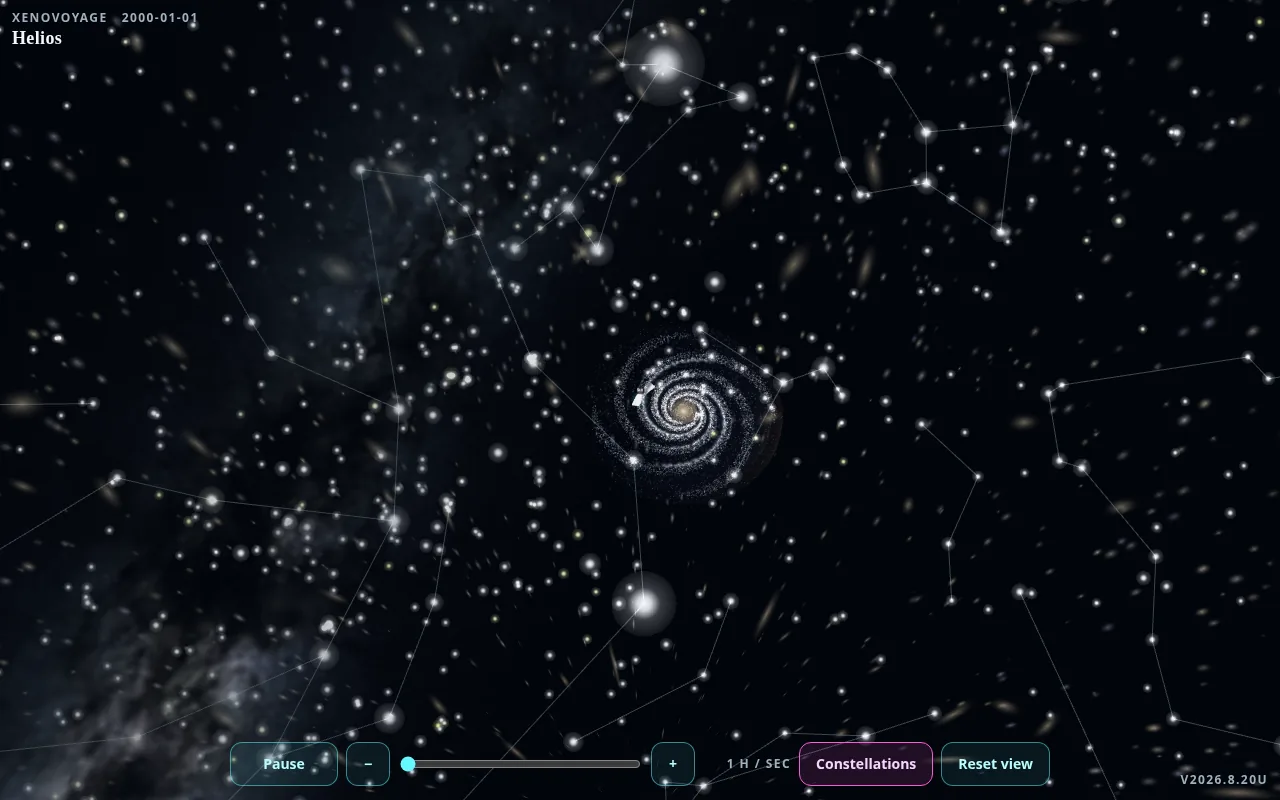
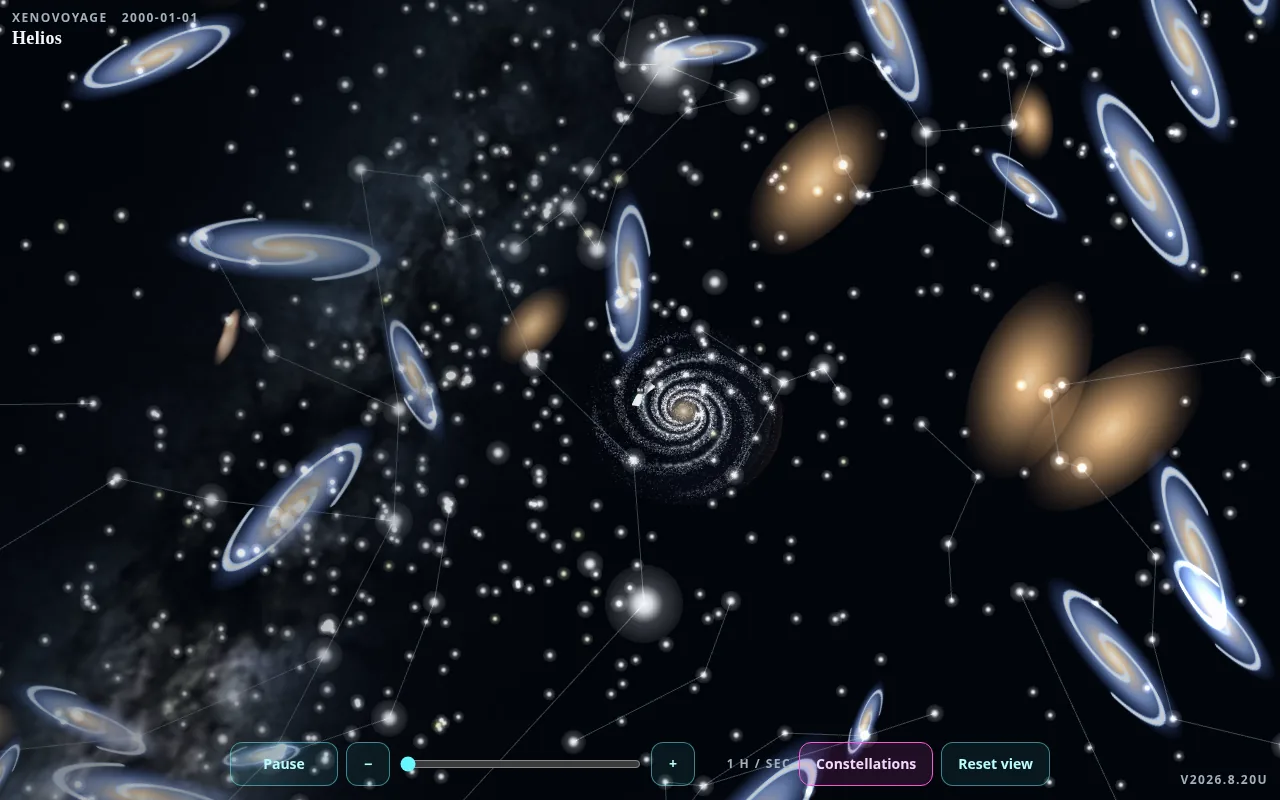
Recapture stills with the galaxy-image sky restored
Extra-zoom sky is camera-attached unlit galaxy sprites, not a
point-dot field and not a ball. Neighborhood and tail frames show
that field. Solar orrery is unchanged.

diff --git a/js/galaxy.js b/js/galaxy.js
@@ -1727,7 +1727,7 @@ function createFarGalaxySky(THREE, group, maps) {
   const radius = farGalaxySkyRadius() * 0.045;
   const rand = seedRandom(4608);
   const kinds = ["spiral", "elliptical", "spiral", "irregular"];
-  const count = 460;
+  const count = 300;
   for (let i = 0; i < count; i += 1) {
     const kind = kinds[Math.floor(rand() * kinds.length)];
     const sprite = new THREE.Sprite(unlitSprite(THREE, {
@@ -1747,7 +1747,7 @@ function createFarGalaxySky(THREE, group, maps) {
       r * Math.cos(phi),
       r * Math.sin(phi) * Math.sin(theta),
     );
-    const size = 18000 + rand() * 42000;
+    const size = 11000 + rand() * 24000;
     sprite.scale.set(size, size * (kind === "elliptical" ? 0.78 : 0.48), 1);
     sprite.frustumCulled = false;
     sky.add(sprite);
